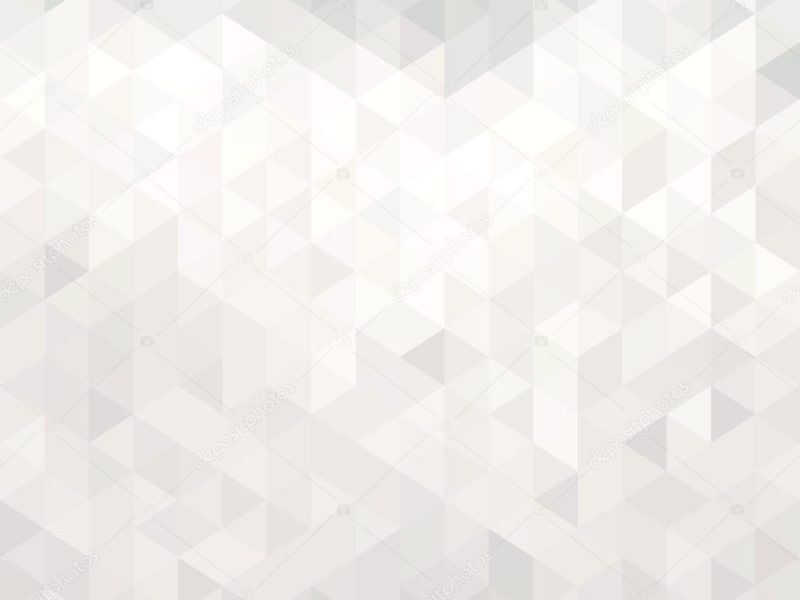
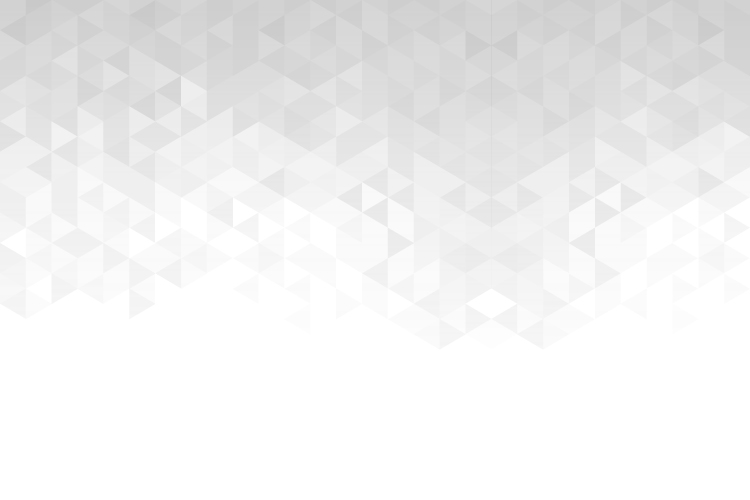
Added non watermark bg image

diff --git a/app/application/views/technical/camera.php b/app/application/views/technical/camera.php
@@ -2,7 +2,7 @@
 <?php $this->load->view('core/header'); ?>
   
   <!-- Body - Camera Settings -->
-  <body class="pages-bg">
+  <body>
 
     <!-- Page Sidebar Nav -->
     <?php $this->load->view('core/nav'); ?>
